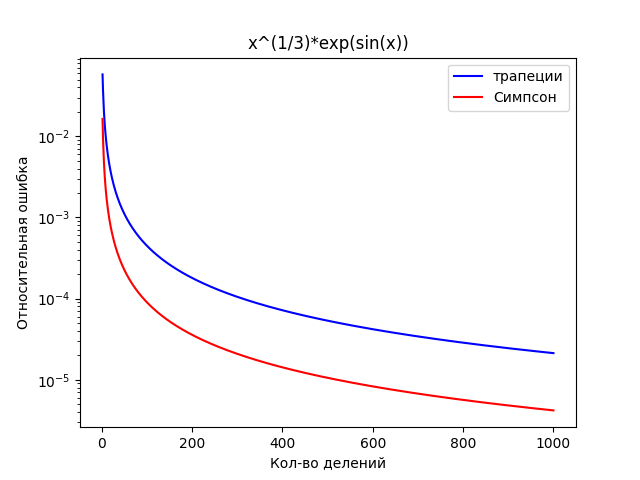
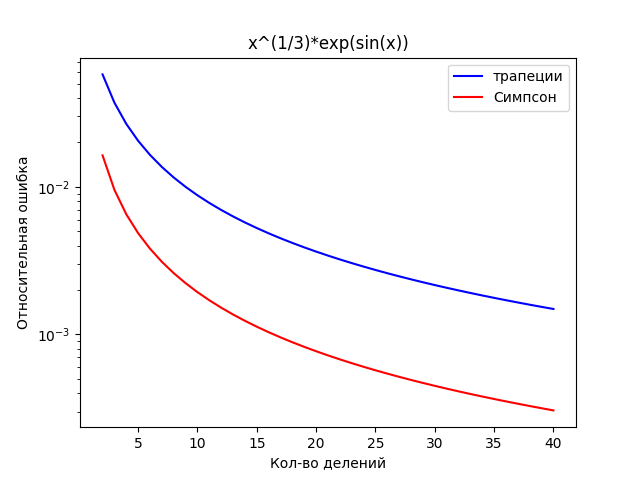
commit task3

diff --git a/task3.py b/task3.py
@@ -9,7 +9,7 @@ import math
 import matplotlib.pyplot as plt
 from scipy.integrate import quad
 a1, b1, a2, b2 = 1., -1., 0., 1.
-N = 1000
+N = 40
 
 
 def f1(x) -> float:
@@ -140,3 +140,16 @@ def run():
     plt.legend(loc='best')
     plt.title('x^(1/3)*exp(sin(x))')
     plt.savefig('page2.png')
+    plt.close()
+    diff = []
+    for i in range(len(y1arr)):
+        diff.append(y1arr[i] - y2arr[i])
+
+    plt.yscale('log')
+    plt.plot(x, diff, label='difference', color=colors[0])
+    plt.savefig('task3_dif.png')
+
+    '''
+    если бы это был просто перенос, то разница была бы константной
+    '''
+
